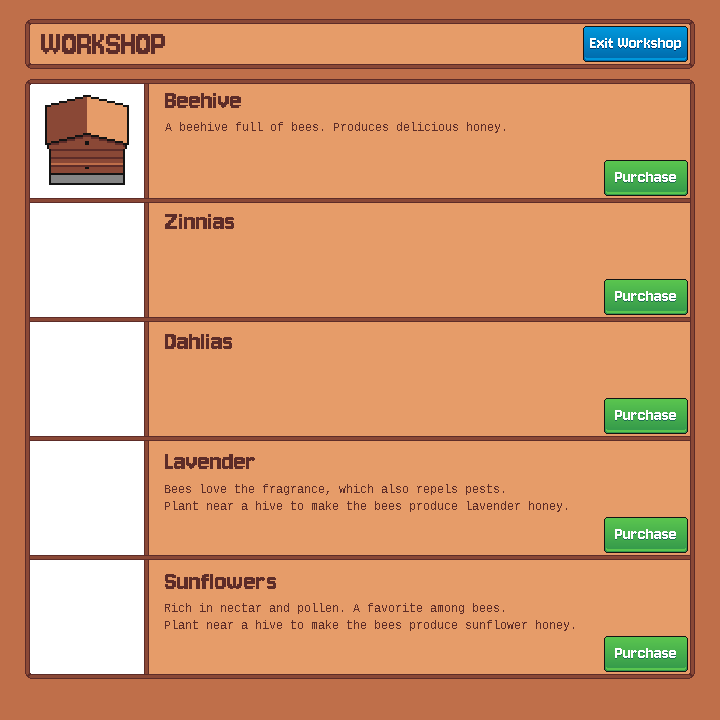
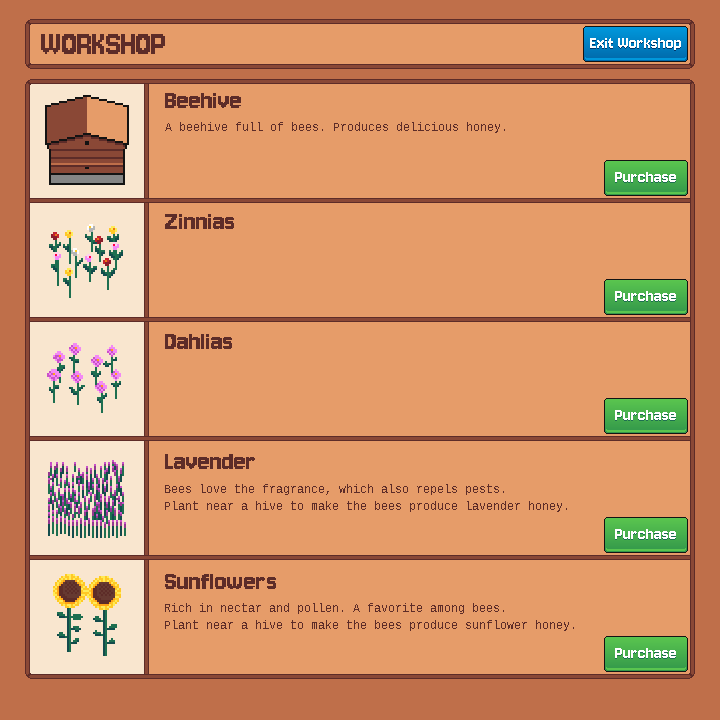
Updated shop, fixed build edge case

Changed region(s): [[0.0306, 0.0917, 0.2139, 0.9472]]

diff --git a/src/raylib_game.c b/src/raylib_game.c
@@ -686,7 +686,10 @@ void updateBuildScene(void) {
         
                 break;
             }
-            default: {}    
+            default: {
+                // If item is not covered, return to garden.
+                gs->currentScene = GARDEN;
+            }    
         }
     }
 }